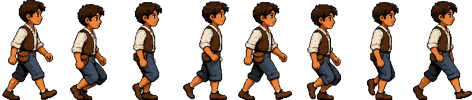
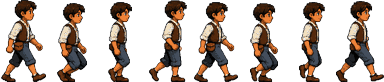
fix: scale Michele to match Capri characters

diff --git a/examples/capri-1535/tools/build_sprite.py b/examples/capri-1535/tools/build_sprite.py
@@ -26,7 +26,7 @@ CHARACTERS_DIR = Path("src/characters")
 # The character's height at full scale, i.e. standing at the very front of a
 # room. Everything further back is scaled down from this, never up: enlarging
 # pixel art past its drawn size is the one operation that always looks cheap.
-NATIVE_HEIGHT = 100
+NATIVE_HEIGHT = 82
 COLOURS = 32
 
 

diff --git a/examples/capri-1535/docs/background-art-spec.md b/examples/capri-1535/docs/background-art-spec.md
@@ -71,7 +71,7 @@ da ciò che è ricostruzione plausibile.
 Un bel panorama non è ancora una stanza giocabile. Ogni fondale deve contenere:
 
 1. un piano di calpestio continuo e inequivocabile, abbastanza largo per uno
-   sprite alto fino a 100 pixel in primo piano;
+   sprite alto fino a 82 pixel in primo piano;
 2. almeno un ingresso vicino a un bordo e un'uscita visivamente leggibile;
 3. una variazione di profondità sufficiente a scalare Michele dal 100% in primo
    piano a circa il 55% sul fondo;
